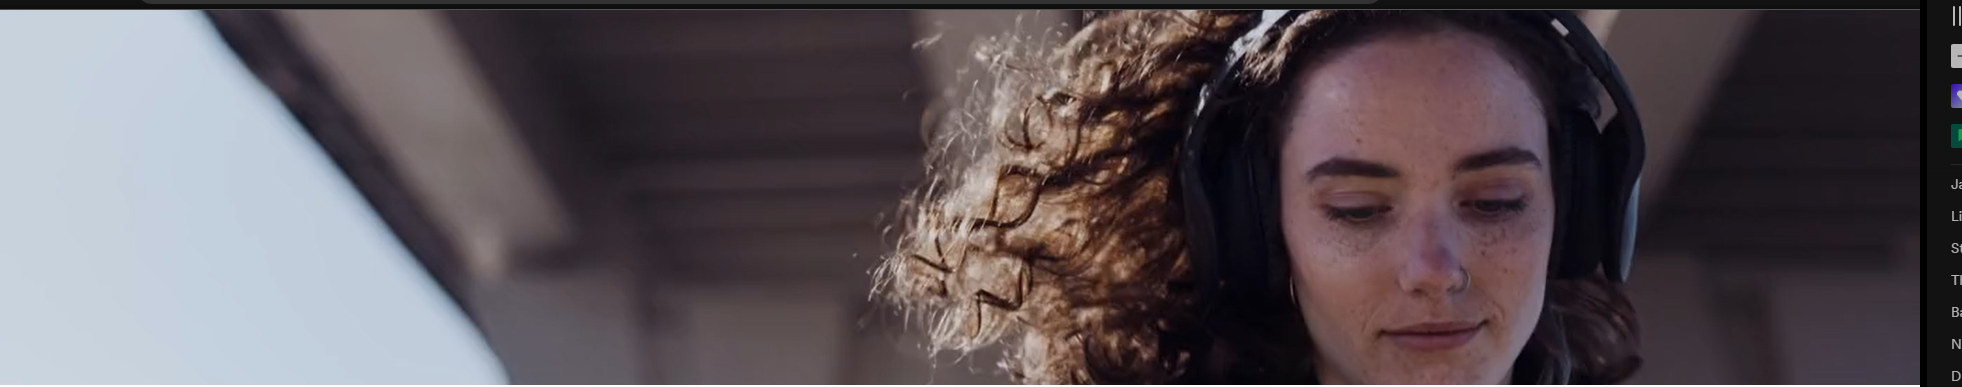
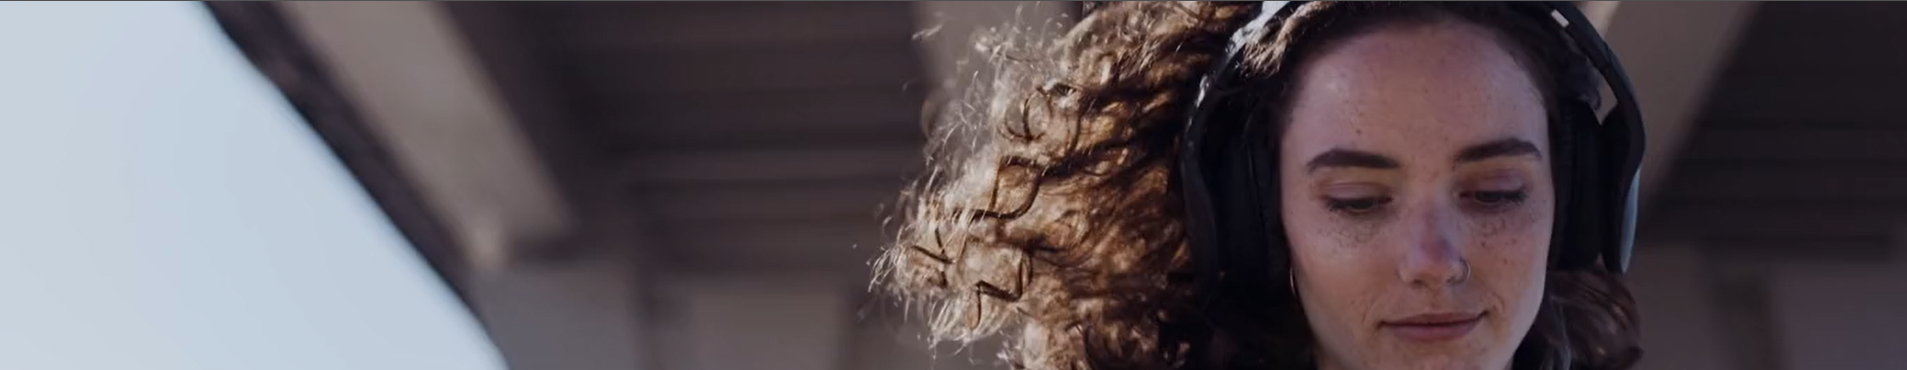
add buton css

Changed region(s): [[0.0, 0.0, 1.0, 1.0]]

diff --git a/dia15/src/components/mainContext/mainContent.css b/dia15/src/components/mainContext/mainContent.css
@@ -1,65 +1,87 @@
 .main_content {
-   display: flex; 
-   width: 100%;
-   height: 100%;
-   
-   margin: 2rem auto;
-   padding: 2.8rem 0;
-   justify-content: space-between;
-   flex-wrap: wrap;
-   box-sizing: border-box;
+  display: flex;
+  width: 100%;
+  height: 100%;
 
+  margin: 2rem auto;
+  padding: 2.8rem 0;
+  justify-content: space-between;
+  flex-wrap: wrap;
+  box-sizing: border-box;
+  overflow: hidden;
 }
 
-.card_header  {
-    
-    padding-inline:1.8rem;
-    
-}h2 {
-    font-size:28px;
+
+
+.card {
+  display: flex;
+  flex-direction: column;
+  justify-content: center;
+  align-items: center;
+  width: 500px;
+  padding: 2rem;
+
+  transition: all 0.3s ease-in-out;
+  transform: scale(0.8);
+  cursor: pointer;
+}
+
+.card_header {
+    padding-inline: 1.8rem;
+    display: flex;
+    align-items: center;
+    flex-direction: column;
+    justify-content: space-evenly;
+  }
+  h2 {
+    font-size: 28px;
     font-weight: 700;
-}
-p{
-    font-size:20px;
-    text-align:center;
+  }
+  p {
+    font-size: 20px;
+    text-align: center;
     margin: 0.5rem 0;
     color: rgb(40, 38, 38);
-    padding-top:.5rem;
-}
-.price{
+    padding-top: 0.5rem;
+  }
+  .price {
     font-size: 25px;
     font-weight: 600;
-   
-}span{
+  }
+  span {
     font-size: 25px;
     display: inline-block;
     vertical-align: top;
-}
-
-.card_img img {
-    width: 70%;
-    
-}
-
-.card {
-    display: flex;
-    flex-direction: column;
-    justify-content: center;
-    align-items: center;
-    width: 500px;
-    padding:2rem;
-    
-    transition: all .3s ease-in-out;
-    transform: scale(0.8);
-    cursor: pointer;
-    
+  }
   
-}
+  .card_img img {
+    width: 70%;
+  }
 
 .card:hover {
-    background:linear-gradient(#e5e5e559,#d2d1d159);
-    backdrop-filter: blur(90px);
-    transform: scale(1.1);
-    border-radius: 1rem;
-    transition: all .3s ease-in-out;
+  background: linear-gradient(#f8f7f759, rgb(226, 231, 235));
+  backdrop-filter: blur(90px);
+  transform: scale(1.1);
+  border-radius: 1rem;
+  transition: all 0.3s ease-in-out;
+}
+
+.btn {
+    border: 2px solid  #191919;
+    background-color: ;
+    padding: 1.5rem;
+    display: flex;
+    align-items: center;
+    justify-content: center;
+    border-radius: 1em;
+    font-size:18px;
+    margin-top: 1rem;
+    cursor: pointer;
+}
+
+.btn:hover {
+    background-color:  #191919;
+    transition: all 0.3s ease-in-out;
+    color:aliceblue;
+    border: 1px ridge aliceblue;
 }

diff --git a/dia15/src/components/data/product_data.jsx b/dia15/src/components/data/product_data.jsx
@@ -23,57 +23,8 @@ const product_card = [
         price:202,
         currency: "$",
         thumb:"./img/img03.png"
-    },
-    {
-        id:4,
-        product_name: "Bose QuietComfort® 45 headphones",
-        description: "A best-in-class combination of noise cancelling, audio performance, and comfort",
-        price:329,
-        currency: "$",
-        thumb:"./img/img01.png"
-    },
-
-    {
-        id:5,
-        product_name: "S1 Pro Portable Bluetooth® speaker system",
-        description: "Be the hero of the party. This Bluetooth® speaker delivers big sound from a rugged, all-in-one system.",
-        price:699,
-        currency: "$",
-        thumb:"./img/img02.png"
-    },
-    {
-        id:6,
-        product_name: "SoundLink Micro Bluetooth® speaker Bundles",
-        description: "Waterproof, dustproof, extreme-temperature proof. Adventure ready",
-        price:202,
-        currency: "$",
-        thumb:"./img/img03.png"
-    },
-    {
-        id:4,
-        product_name: "Bose QuietComfort® 45 headphones",
-        description: "A best-in-class combination of noise cancelling, audio performance, and comfort",
-        price:329,
-        currency: "$",
-        thumb:"./img/img01.png"
-    },
-
-    {
-        id:5,
-        product_name: "S1 Pro Portable Bluetooth® speaker system",
-        description: "Be the hero of the party. This Bluetooth® speaker delivers big sound from a rugged, all-in-one system.",
-        price:699,
-        currency: "$",
-        thumb:"./img/img02.png"
-    },
-    {
-        id:6,
-        product_name: "SoundLink Micro Bluetooth® speaker Bundles",
-        description: "Waterproof, dustproof, extreme-temperature proof. Adventure ready",
-        price:202,
-        currency: "$",
-        thumb:"./img/img03.png"
     }
+    
 ]
 
 export default product_card;

diff --git a/dia15/src/App.jsx b/dia15/src/App.jsx
@@ -3,13 +3,14 @@ import "./App.css";
 import Header from "./components/header/header";
 import MainContent from "./components/mainContext/mainContent";
 import Footer from "./components/footer";
-
-import Menina2 from "./assets/menina2.mp4";
+import Banner from "./assets/banner.png"
+/* import Menina2 from "./assets/menina2.mp4"; */
 
 function App() {
   return (
     <div className="container">
-      <video className="video" src={Menina2} autoPlay loop />
+      <img classname="banner" src={Banner} alt="banner mulher headphone" />
+      {/* <video className="video" src={Menina2} autoPlay loop /> */}
 
       <Header />
       

diff --git a/dia15/src/components/header/header.css b/dia15/src/components/header/header.css
@@ -27,13 +27,17 @@ li {
     cursor: pointer;
     margin-left: 15px;
 }
-.nav-links {
-    
-}
+
 .nav-links:hover {
-    border: 1px ridge #d1c7c7b5;
+    border: 1px ridge #faf6f6f5;
     border-radius: 0.2rem;
     padding: 0.3rem;
     transition: 0.5s;
     opacity: 0.8;
+}
+
+@media (max-width: 768px) {
+    .nav-links {
+        display: none;
+      }
 }

diff --git a/dia15/src/index.css b/dia15/src/index.css
@@ -9,11 +9,14 @@
 
 
 
-.video {
+.banner img {
   object-fit:cover;
   width: 100%;
-  height: 300px;
-  
-  
+  height: 500px;
    
+   
+}
+
+@media (max-width:480px){
+
 }

diff --git a/dia15/src/components/header/header.jsx b/dia15/src/components/header/header.jsx
@@ -1,7 +1,10 @@
 import React from 'react';
 import './header.css';
 
+
 const Header = () => {
+
+
   return (
     <div>
       <nav className='navbar'>
